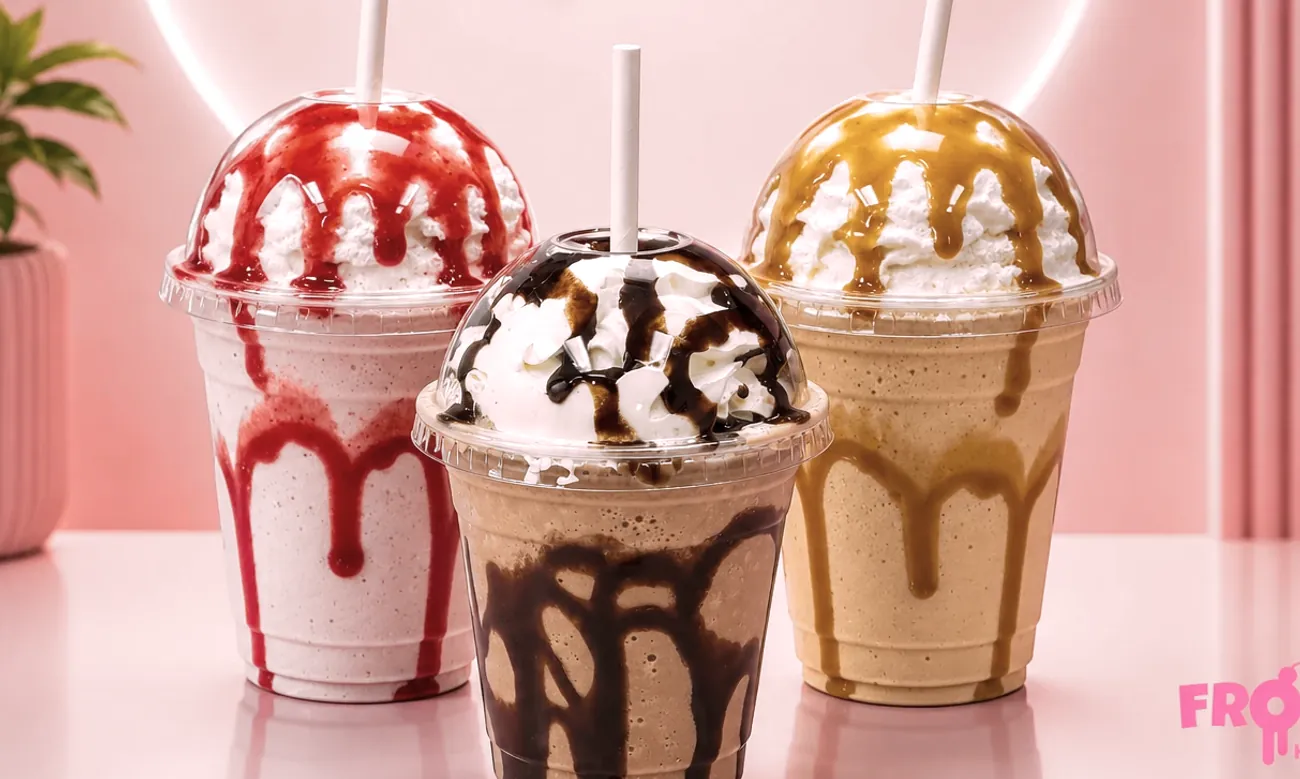
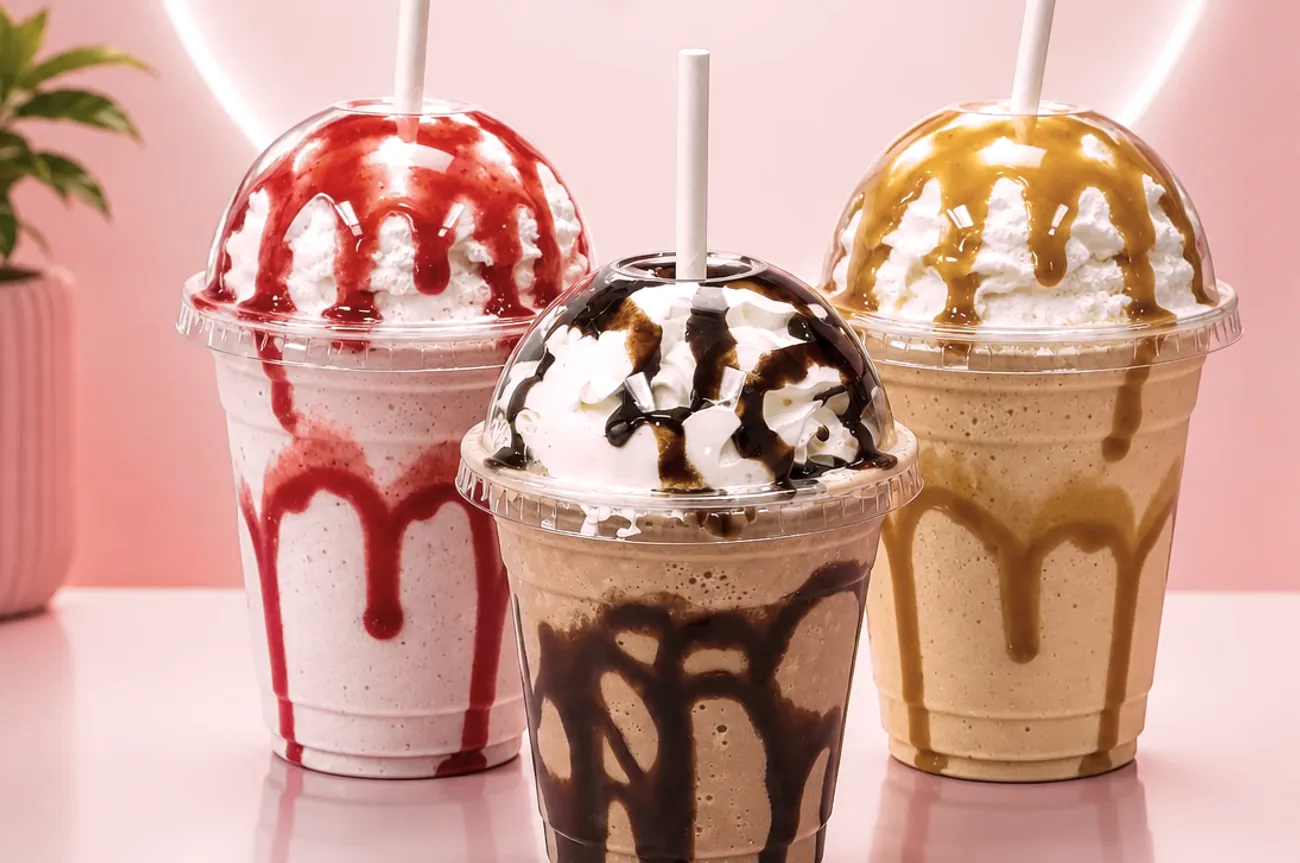
Stop the Thick Shakes copy sitting on the photograph
Two faults met in the same corner of the Product 03 spread.

The source shot carries a hot-pink watermark in its bottom-right, and
the crop had clipped it into a meaningless "FRO" fragment. The crop now
stops short of it, keeping the caramel shake whole.

.prod--c was also the one product spread whose columns overlapped, media
running 1/span 9 against a body starting at column 9, so the copy sat on
the photo's busy right edge: the set's pink pillar ran behind "Thick
Shakes." and the watermark landed under the price line. The media now
ends at column 8, leaving a clean 43px gutter, and the copy keeps its
bottom alignment so the spread still reads as intended.

Checked the other five plates for the same watermark — clean. The black
cup stickers are on the product itself and stay.

diff --git a/css/style.css b/css/style.css
@@ -508,7 +508,7 @@ body.menu-open .mnav__foot { opacity: 1; }
 .prod--b .prod__no    { left: 4%; }
 
 /* layout C — wide image, copy tucked beneath its right shoulder */
-.prod--c .prod__media { grid-column: 1 / span 9; }
+.prod--c .prod__media { grid-column: 1 / span 8; }
 .prod--c .prod__body  { grid-column: 9 / span 4; align-self: end; padding-bottom: clamp(0rem, 4vw, 3.5rem); }
 .prod--c .prod__no    { left: 1%; top: -.5em; }
 
